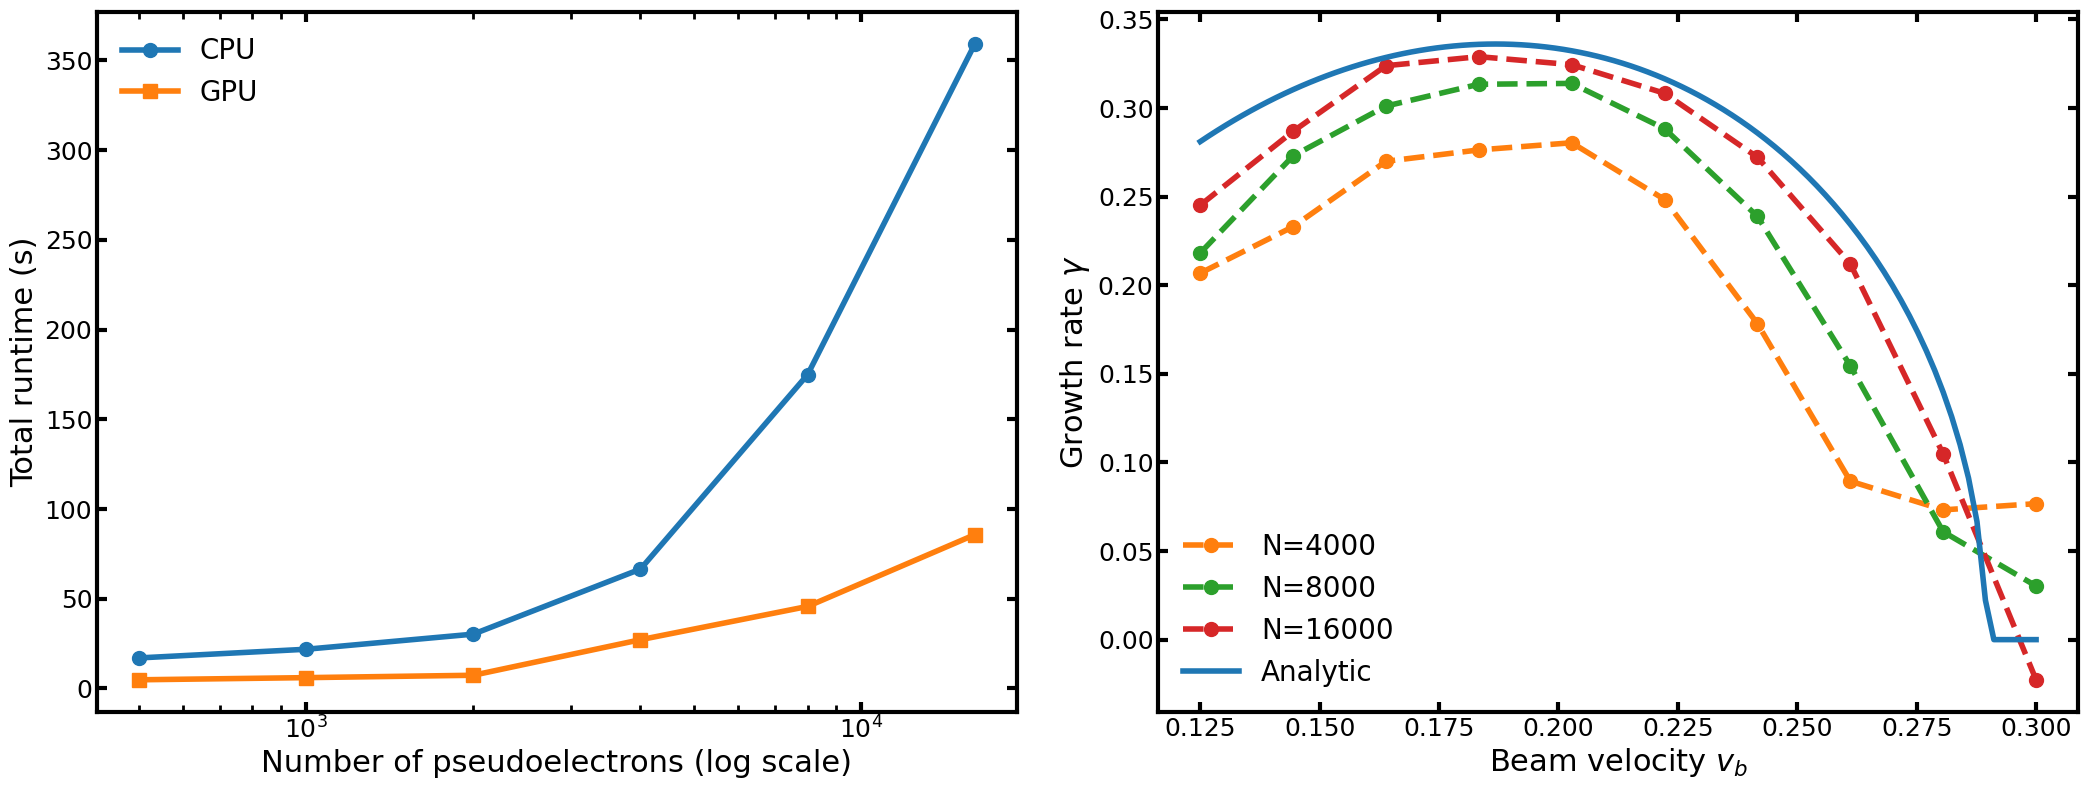
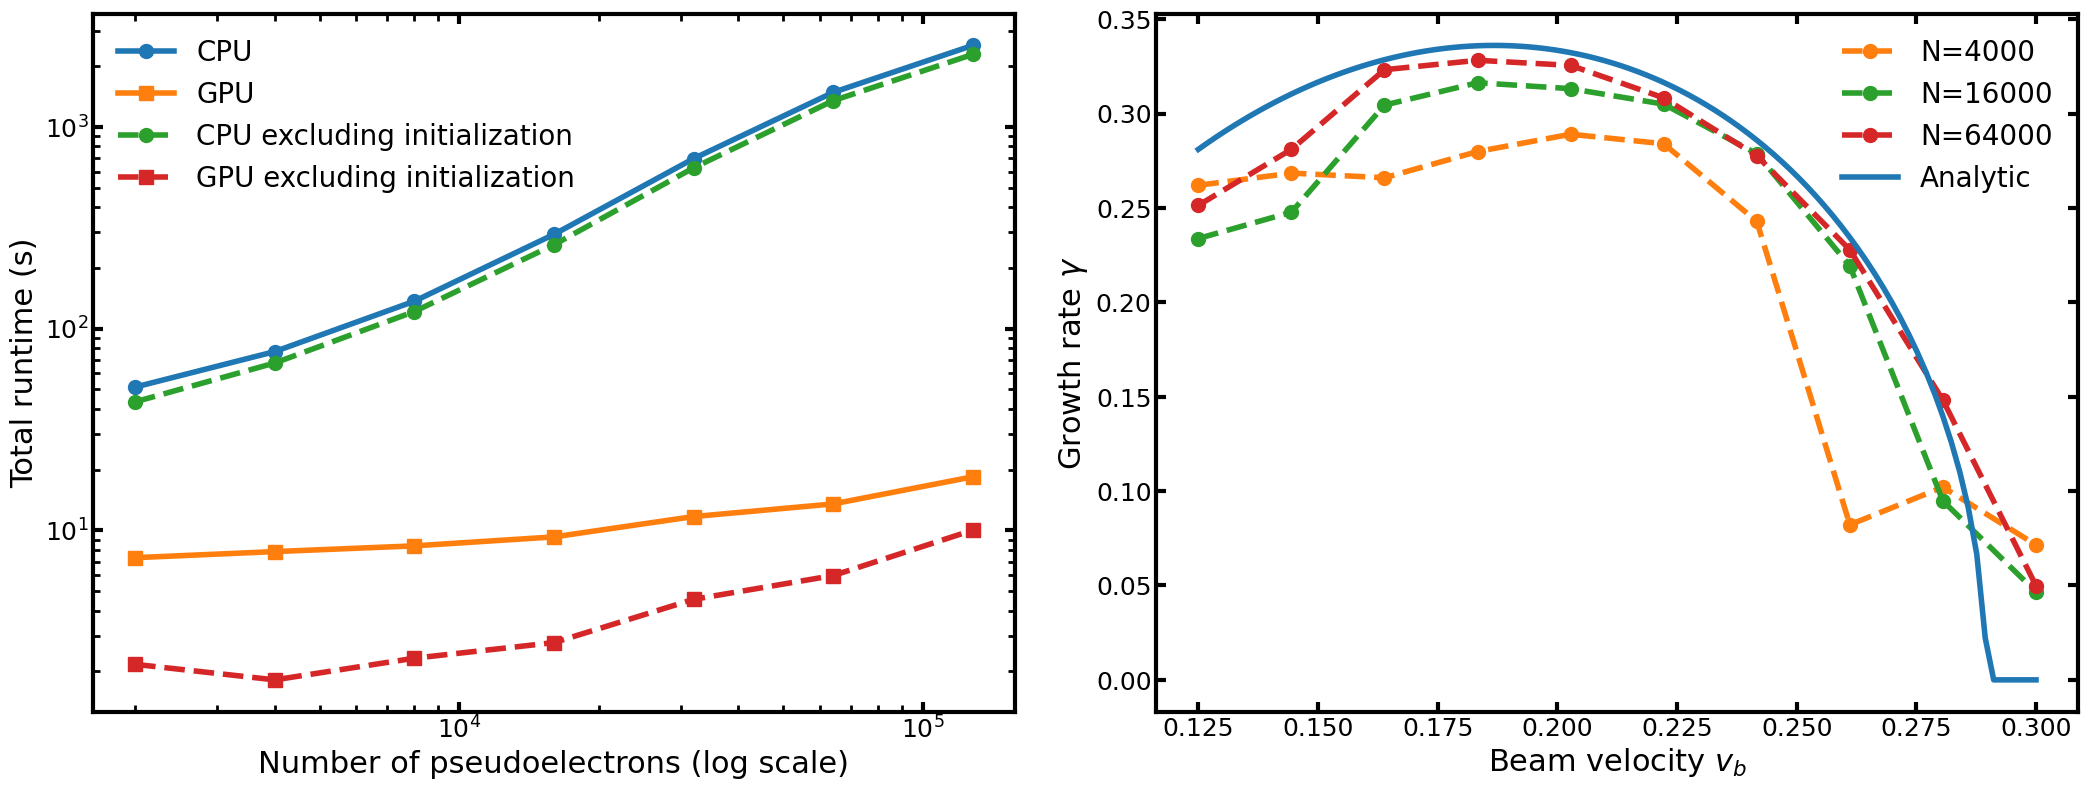
third draft

diff --git a/paper.md b/paper.md
@@ -17,30 +17,25 @@ bibliography: paper.bib
 ---
 
 # Summary
+JAX-in-Cell is a 1D3V Particle-in-Cell (PIC) code implemented entirely in JAX, providing a modern, Python-based alternative to traditional PIC frameworks. By using on JAX’s recommended functions,such as vmap, jit, and lax,for all core operations, the code achieves efficient vectorization and GPU acceleration. The resulting framework enables fast, fully kinetic plasma simulations suitable for both research applications and instructional settings.
 
-A plasma is a collection of free ions and electrons whose self-generated and external electromagnetic fields drive collective behavior. Particle-in-Cell (PIC) simulation is a powerful tool in plasma physics, offering a fully kinetic description and enabling exploration of complex interactions in fusion devices and astrophysical plasmas[@birdsall1991plasma].
+# Statement of Need
 
-Our code, **JAX-in-Cell**, implements a 1D3V PIC framework in JAX and is built to be open-source, user-friendly, and developer-friendly, written entirely in Python in contrast to many other PIC codes implemented in legacy languages such as Fortran[@epochPic] or mixed-language frameworks[@vpicLANL]. Utilizing JAX, the code achieves high performance through GPU acceleration, just-in-time compilation, vectorized operations, and automatic differentiation, and it is well-suited for both educational-scale demonstrations—such as reproducing Landau damping and two-stream instability—and research-scale simulations such as rapid optimization.
+A plasma is a collection of free ions and electrons whose self-generated and external electromagnetic fields drive collective behavior. PIC simulation is a powerful tool in plasma physics, offering a fully kinetic description and enabling exploration of complex interactions in fusion devices and astrophysical plasmas[@birdsall1991plasma].
 
-Furthermore, although the classic Boris push is simple and robust, long-term PIC simulations can experience energy drift (numerical heating). To mitigate this, **JAX-in-Cell** implements both the standard Boris algorithm[@boris1970relativistic] and an implicit, discretely energy-conserving method[@chen2011energy], providing improved energy conservation for extended simulations.
+Our code, JAX-in-Cell, implements a 1D3V PIC framework in JAX and is built to be open-source, user-friendly, and developer-friendly, written entirely in Python in contrast to many other PIC codes implemented in legacy languages such as Fortran[@epochPic] or mixed-language frameworks[@vpicLANL]. Utilizing JAX, the code achieves high performance through GPU acceleration, just-in-time compilation, vectorized operations, and automatic differentiation, and it is well-suited for both educational-scale demonstrations—such as reproducing Landau damping and two-stream instability—and research-scale simulations such as rapid optimization.
+
+Furthermore, although the classic Boris push is simple and robust, long-term PIC simulations can experience energy drift (numerical heating). To mitigate this, JAX-in-Cell implements both the standard Boris algorithm[@boris1970relativistic] and an implicit, discretely energy-conserving method[@chen2011energy], providing improved energy conservation for extended simulations.
 
 # Structure
 
-The core of our Particle-in-Cell (PIC) code is based on the Vlasov–Maxwell system, which governs the self-consistent evolution of the particle distribution function and electromagnetic fields:
+The core of our PIC code is based on the Vlasov–Maxwell system, which self-consistently evolves particle distribution functions and electromagnetic fields. For each species $s$, the distribution function satisfies the Vlasov equation,
 
 \begin{equation}
 \partial_t f_s + \mathbf{v} \cdot \nabla f_s + \frac{q_s}{m_s} (\mathbf{E} + \mathbf{v} \times \mathbf{B}) \cdot \nabla_{\mathbf{v}} f_s = 0,
 \end{equation}
 
-\begin{equation}
-\frac{\partial \mathbf{B}}{\partial t} + \nabla \times \mathbf{E} = 0,
-\end{equation}
-
-\begin{equation}
-\varepsilon_0 \frac{\partial \mathbf{E}}{\partial t} - c^2 \nabla \times \mathbf{B} + \mathbf{j} = 0.
-\end{equation}
-
-Here, $f_s$ denotes the distribution function for species $s$, $\mathbf{v}$ is the particle velocity, $q_s$ and $m_s$ are the particle charge and mass, $\mathbf{E}$ and $\mathbf{B}$ are the electric and magnetic fields, $\varepsilon_0$ is the vacuum permittivity, and $\mathbf{j}$ is the current density.
+with the electromagnetic fields governed by the standard Maxwell equations. Here, $f_s$ denotes the distribution function, $\mathbf{v}$ is the particle velocity, $q_s$ and $m_s$ are the particle charge and mass, $\mathbf{E}$ and $\mathbf{B}$ are the electric and magnetic fields, $\varepsilon_0$ is the vacuum permittivity.
 
 In a typical 1D3V PIC framework, the distribution function is discretized using pseudo-particles labeled $p$ as
 
@@ -57,8 +52,7 @@ j^n_i = \frac{\Delta x}{\Delta t} \sum_{k=i-3}^{i+2} \left( \rho^{n+1/2}_{k+1/2}
 where $i$ denote cell number, $n$ for timestep $\rho$ for charge density.
 
 We implement two time-evolution methods. See \autoref{fig:algorithm}.
-(1) an explicit Boris algorithm[@boris1970relativistic], and  
-(2) an implicit Crank–Nicolson scheme solved via Picard iteration[@chen2011energy].
+(1) an explicit Boris algorithm[@boris1970relativistic], and  (2) an implicit Crank–Nicolson scheme solved via Picard iteration[@chen2011energy].
 
 ![Demonstration of two time-evolution algorithms \label{fig:algorithm}](figs/two_alg.png)
 
@@ -89,7 +83,7 @@ f_{e0}(\mathbf{v}) &= \frac{n_0}{2 \, \pi^{3/2} v_{th,x} v_{th,y} v_{th,z}}
 \end{aligned}
 \end{equation}
 
-where $v_b1,2$ are drift speeds along $x$ and $v_{th,i}$ is thermal velocities along each direction. By linearizing the Vlasov–Maxwell system around this initial distribution, assuming identical thermal velocities in all directions ($v_{th,x}=v_{th,y}=v_{th,z}$), one obtains the following dispersion relation:
+where $v_b{1,2}$ are drift speeds along $x$ and $v_{th,i}$ is thermal velocities along each direction. To validate these simulations, it is useful to compare with the corresponding linear theory. Linearizing the Vlasov–Maxwell system around this initial distribution (with equal thermal velocities $v_{th,x}=v_{th,y}=v_{th,z}$), yields the dispersion relation:
 
 \begin{equation}
 1 + \frac{1}{2k^2\lambda_D^2}
@@ -97,7 +91,7 @@ where $v_b1,2$ are drift speeds along $x$ and $v_{th,i}$ is thermal velocities a
 \xi_i=\frac{\omega}{kv_{th}}-\frac{v_{b_i}}{v_{th}},
 \end{equation}
 
-where $\lambda_D$ is Debye length and $Z$ is the Fried–Conte plasma dispersion function. The complex frequency $\omega$ determines both the oscillation frequency and the damping or growth rate $\gamma$.
+where $\lambda_D$ is Debye length and $Z$ is the Fried–Conte plasma dispersion function. The complex frequency $\omega$ determines both the oscillation frequency and the damping or growth rate $\gamma$. With this theoretical prediction established, the following parameter choices demonstrate two representative test cases:
 
 For Landau damping:
 (i) Perturbation: $a = 0.025$, $k\lambda_D = 1/2$
@@ -111,16 +105,19 @@ For two-stream instability:
 
 ![Electric field energy evolution for Landau damping and two-stream instability. (a) Landau damping with analytical damping rate $\gamma = 0.153$. (b) Two-stream instability showing fitted exponential growth rate. (c–d) Relative total energy deviation $|E_{\text{total}} - E_{\text{total}}(0)| / E_{\text{total}}(0)$ demonstrating energy conservation.](figs/output.png)
 
-The results show good agreement with analytical predictions; nevertheless, the Landau damping simulation exhibits high sensitivity to the initial conditions, in particular the choice of perturbation amplitude.
+The results (\autoref{fig:output}) show good agreement with analytical predictions; nevertheless, the Landau damping simulation exhibits high sensitivity to the initial conditions, in particular the choice of perturbation amplitude.
 
-Next, we investigated the Weibel instability, which arises in anisotropic plasmas and leads to spontaneous magnetic field generation. The plasma is initialized with anisotropic velocity distribution, and we track magnetic field evolution. During the instability, the magnetic field organizes into filamentary structures perpendicular to the velocity anisotropy. Initially, multiple small filaments form, which subsequently merge into larger-scale structures as the system evolves.
+Next, we investigated the Weibel instability, which arises in anisotropic plasmas and leads to spontaneous magnetic field generation. The plasma is initialized with anisotropic velocity distribution, and we track magnetic field evolution. During the instability, the magnetic field organizes into filamentary structures perpendicular to the velocity anisotropy. Initially, multiple small filaments form, which subsequently merge into larger-scale structures as the system evolves \autoref{fig:Weibel}.
 
 ![Evolution of the magnetic field during the Weibel instability. (a) Time evolution of total magnetic field energy. (b) Spatial profile of the magnetic field.](figs/Weibel.png)
 
-Finally, we evaluated computational performance by comparing CPU and GPU runtimes and examining how the total runtime scales with the number of pseudoparticles. As a representative test, ten drift velocities from the two-stream dispersion relation were simulated.
+Finally, we evaluated the computational performance of our implementation by comparing CPU and GPU runtimes and analyzing how the total runtime scales with the number of pseudoparticles. As a representative benchmark, we simulated ten drift velocities drawn from the two-stream dispersion relation (\autoref{fig:Run_time}). The results confirm the strong advantage of GPU acceleration: for the same workload, the GPU executes the simulation roughly two orders of magnitude faster than the CPU. In particular, for a system of 64,000 pseudoparticles, the GPU completes the full drift-scan in about six seconds after the initial compilation.
 
 ![Comparison of total runtime between CPU and GPU. (b) Influence of pseudoparticle number on the two-stream instability sampling results. Growth rates extracted from exponential fits.](figs/Run_time.png)
 
+These results demonstrate that a fully JAX-based PIC code can deliver both high physical fidelity and excellent computational efficiency, making it suitable for rapid exploratory studies as well as larger-scale plasma simulations.
+
+# Acknowledgement
 
 # References
 
